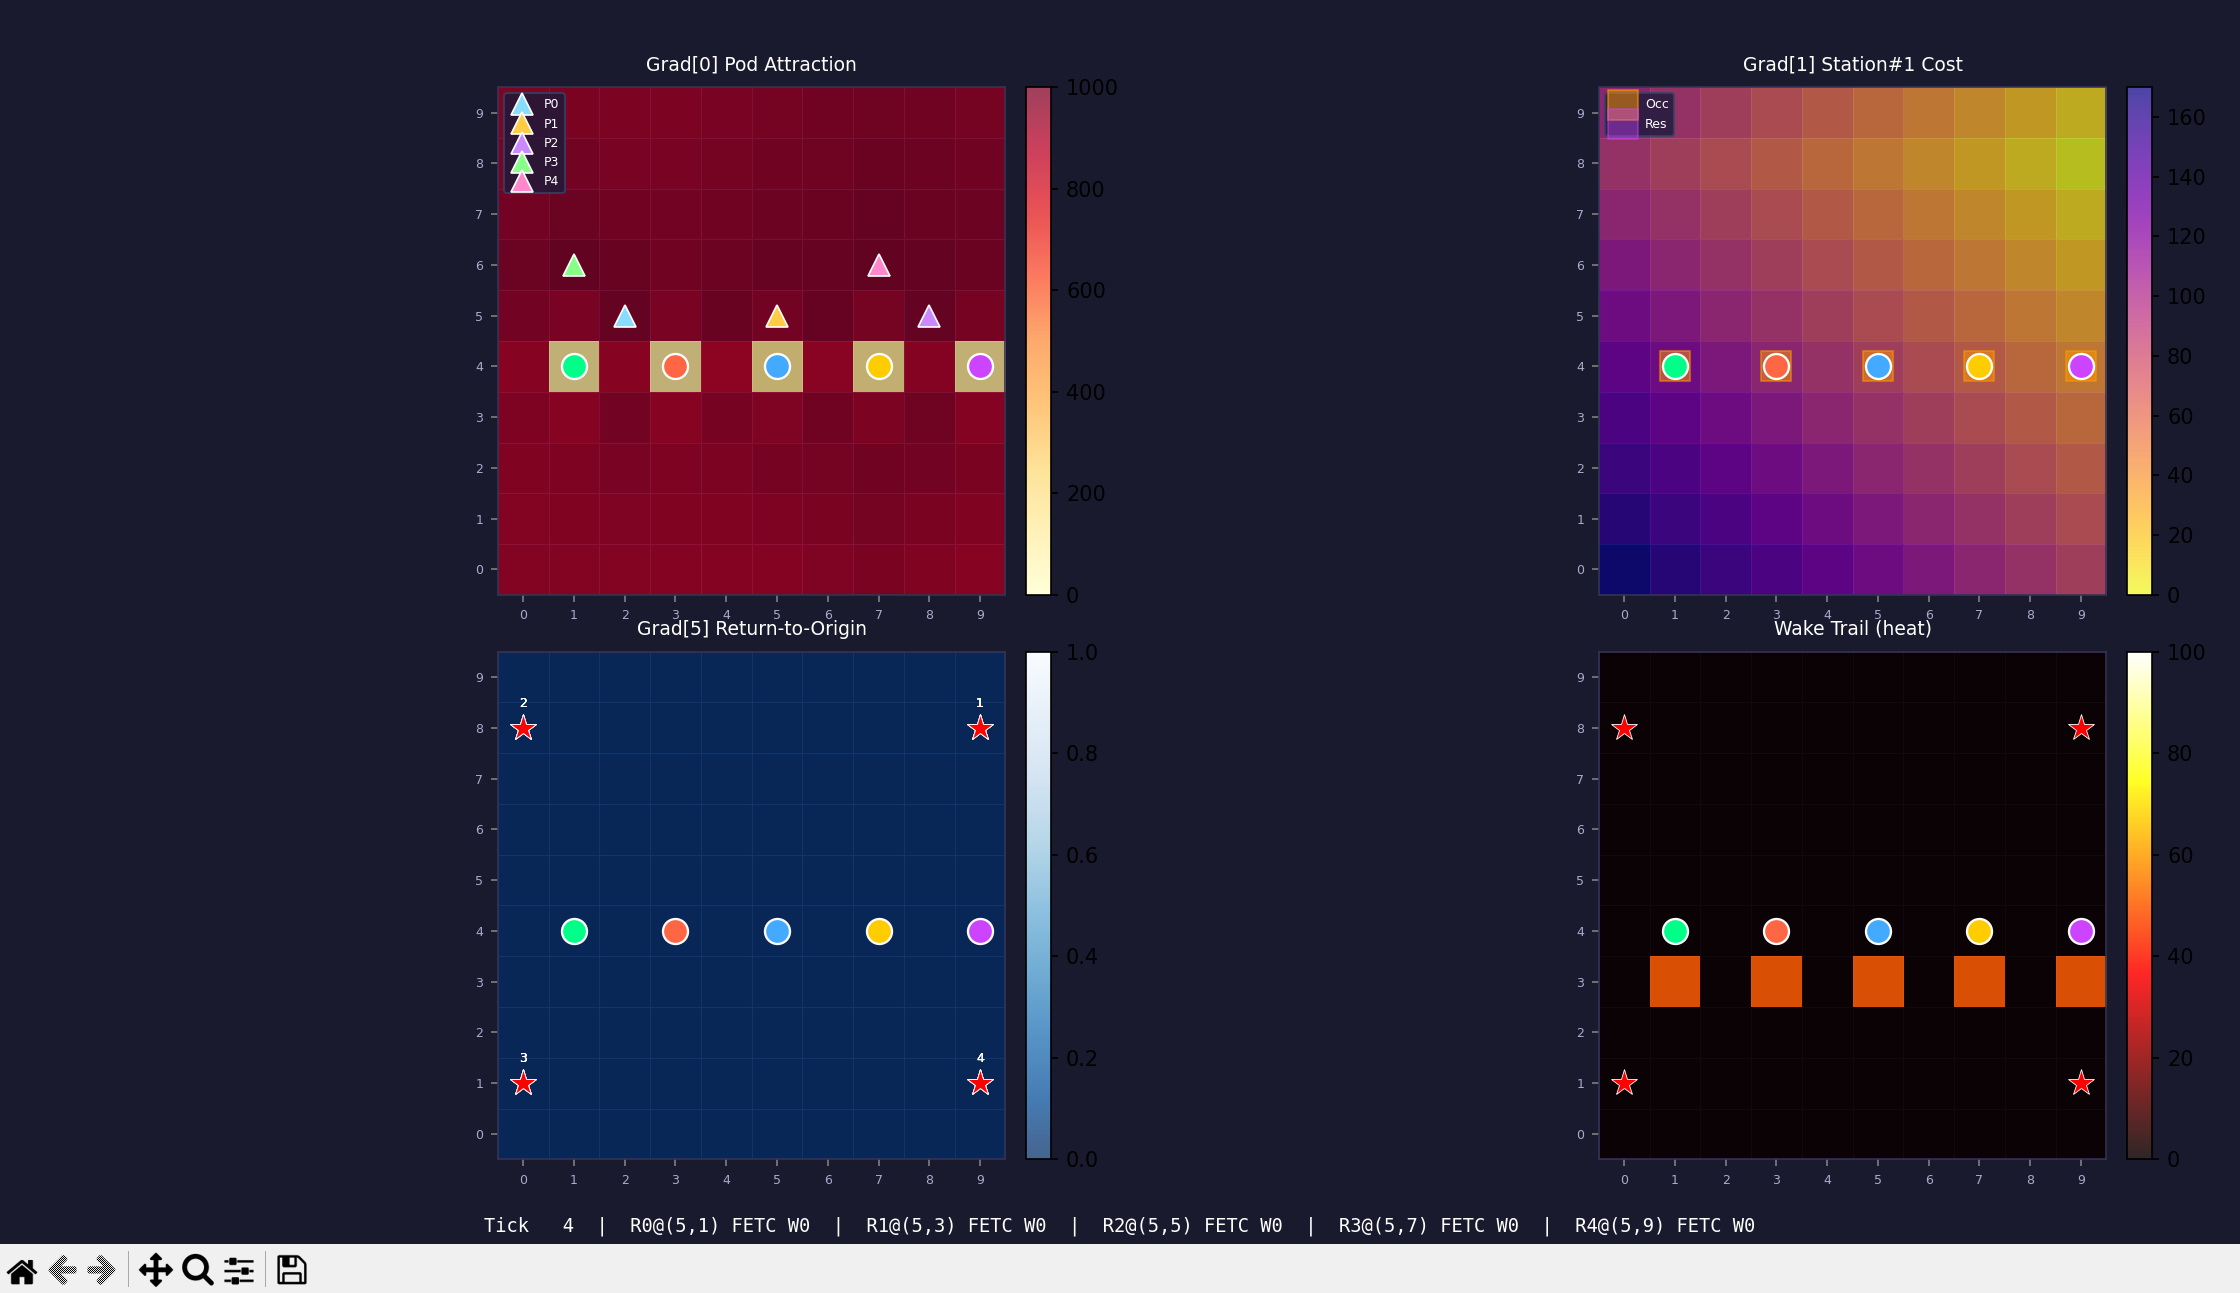
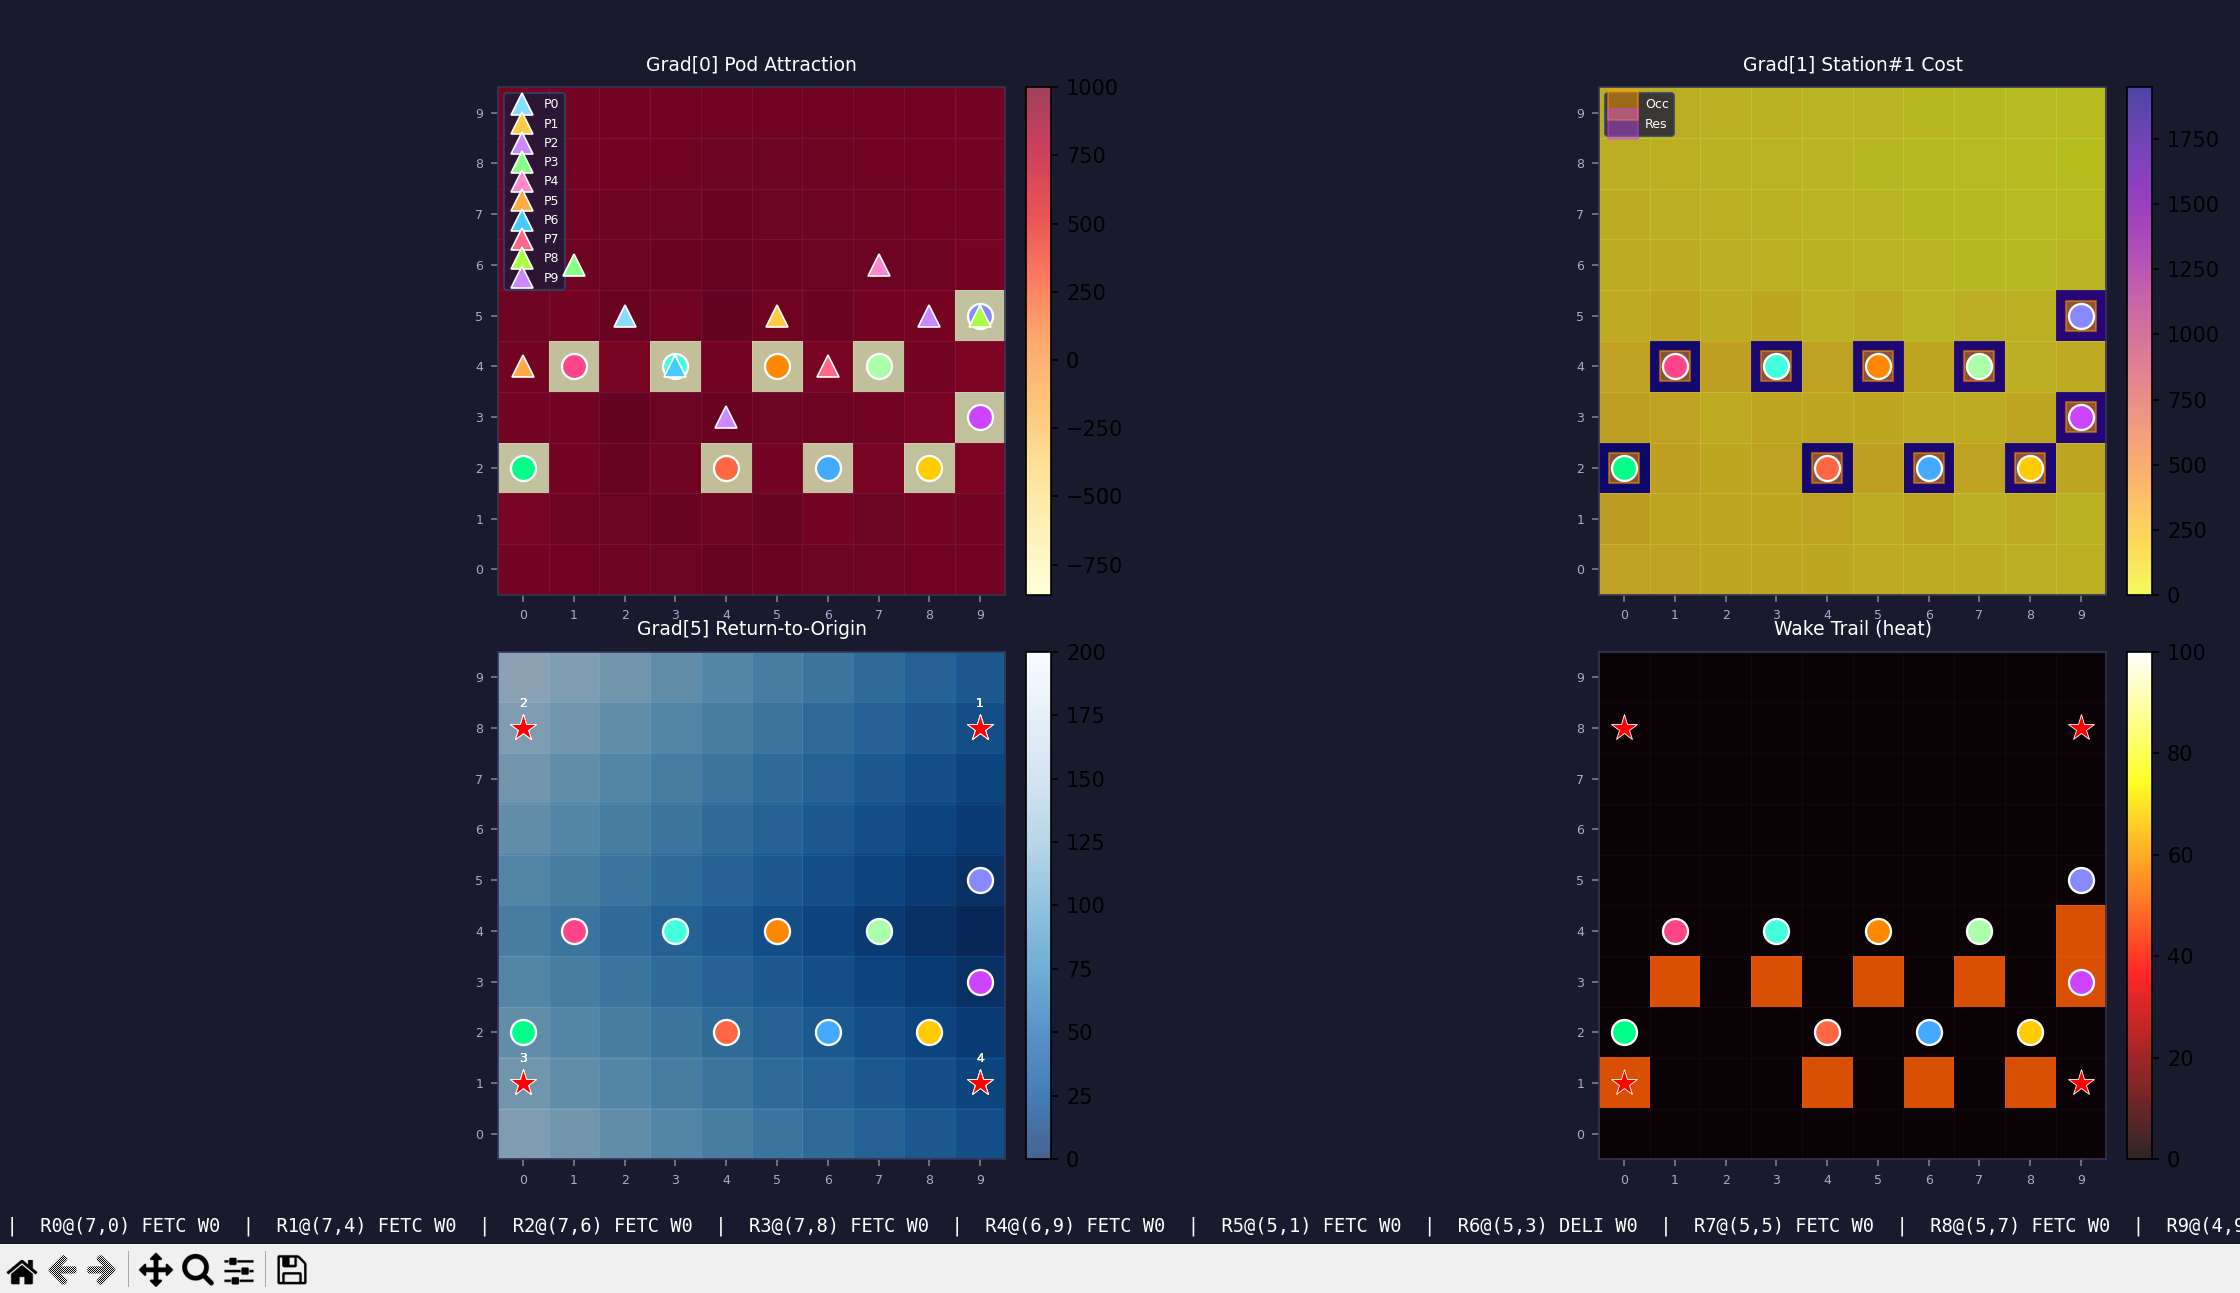
MVP_v2-20%

diff --git a/simulator.py b/simulator.py
@@ -92,20 +92,34 @@ class Simulator:
         self._pods_injected = True
 
     def _dispatch_orders(self) -> None:
-        """让所有 IDLE 机器人自动进入 FETCH_POD（由梯度自由选择 Pod）。"""
+        """让所有 IDLE 机器人自动进入 FETCH_POD（FINISH 机器人不再接收新任务）。"""
         if not self._pod_orders:
             return
         for robot in self.robots:
-            if robot.task_type == TaskType.IDLE:
+            if robot.task_type == TaskType.IDLE:       # FINISH 不在此列
                 robot.task_type = TaskType.FETCH_POD
-                # tar_id 暂不指定，等拾起 Pod 时再赋值
+
+    # ------------------------------------------------------------------
+    def _sync_return_field(self) -> None:
+        """每 tick 同步 Grad[5]：令其精确等于当前空闲 pod 槽的集合。
+        始终维护（不按机器人状态清场），对其他状态的机器人导航无影响。"""
+        free = self._all_pod_positions - self._occupied_pod_slots
+        current = set(self.injector._return_sources.keys())
+        if free == current:
+            return  # 无变化，跳过
+        self.injector._return_sources = {pos: True for pos in free}
+        if free:
+            self.injector._rebuild_return_field()
+        else:
+            self.grid.clear_dim(RETURN_DIM)
 
     # ------------------------------------------------------------------
     def tick(self) -> bool:
         self.tick_count += 1
         self._inject_all_pods()
         self._dispatch_orders()
-        self.injector.tick_diffuse(att_iters=1, cost_iters=1)
+        self._sync_return_field()                          # ← 先同步回程场
+        self.injector.tick_diffuse(att_iters=1, cost_iters=1)  # ← 再扩散（用最新 sources）
 
         # Phase 0: 在所有机器人当前位置打上 wake 标记（首次到达时设为 WAKE_INIT）
         for robot in self.robots:
@@ -137,20 +151,12 @@ class Simulator:
                 any_active = True
                 robot.wait_ticks -= 1
                 if robot.wait_ticks <= 0:
-                    assert robot.pod_origin is not None
-                    pr, pc = robot.pod_origin
                     robot.task_type = TaskType.RETURN_POD
-                    # 把所有当前空闲的 pod 槽都注入 Grad[5]
-                    # （不只是自己的 pod_origin，其他机器人还在途中的空格也要包括）
-                    free_slots = self._all_pod_positions - self._occupied_pod_slots
-                    for fpr, fpc in free_slots:
-                        if (fpr, fpc) not in self.injector._return_sources:
-                            self.injector.inject_return_field(fpr, fpc)
-                    print(f"[Sim]  Robot#{robot.robot_id} → return (targets: {len(free_slots)} free slots)  "
-                          f"tick={self.tick_count}")
+                    # Grad[5] 由下一 tick 的 _sync_return_field() 自动更新
+                    print(f"[Sim]  Robot#{robot.robot_id} → RETURN_POD  tick={self.tick_count}")
                 continue
 
-            if t == TaskType.IDLE:
+            if t == TaskType.IDLE or t == TaskType.FINISH:
                 continue
 
             any_active = True
@@ -185,39 +191,19 @@ class Simulator:
 
             elif t == TaskType.RETURN_POD:
                 assert robot.pod_origin is not None
-                orig_pr, orig_pc = robot.pod_origin
                 pos = (robot.row, robot.col)
-                # 抵达任意空闲的 Pod 原始格子即可放下（不必是自己的 pod_origin）
+                # 抵达任意空闲的 Pod 原始格子即可放下
                 if pos in self._all_pod_positions and pos not in self._occupied_pod_slots:
+                    pod_orig = robot.pod_origin
                     robot.carrying_pod = False
-                    pod_orig = robot.pod_origin       # 保存 origin，用于更新 current_pos
                     robot.pod_origin   = None
-                    robot.task_type    = TaskType.IDLE
+                    robot.task_type    = TaskType.FINISH   # ← 不再接收新任务
                     self._occupied_pod_slots.add(pos)
                     if pod_orig is not None:
-                        self._pod_current_pos[pod_orig] = pos   # 记录 pod 放在了新位置
-                    # 清除自己的回程目标
-                    self.injector.clear_return_target(orig_pr, orig_pc)
-                    # 若落点 pos 不同于自己的 pod_origin，且 pos 是某个其他机器人的回程目标
-                    # → 把该目标从 return_sources 中移除，并将那个机器人的 pod_origin 改为
-                    #   另一个空闲格，避免它继续导航到已被占的 pos
-                    if pos != (orig_pr, orig_pc) and pos in self.injector._return_sources:
-                        # 找空闲 Pod 格（不在已占列表里）重新作为回程目标
-                        free_slots = self._all_pod_positions - self._occupied_pod_slots
-                        # 将正在回程且 pod_origin == pos 的机器人重定向
-                        for other in self.robots:
-                            if (other.task_type == TaskType.RETURN_POD
-                                    and other.pod_origin == pos):
-                                new_target = next(iter(free_slots), None)
-                                if new_target:
-                                    other.pod_origin = new_target
-                                    # new_target 已在 return_sources（当初 inject 过）或需新注入
-                                    if new_target not in self.injector._return_sources:
-                                        self.injector.inject_return_field(new_target[0], new_target[1])
-                        # 最后清除 pos 作为回程目标（重建在上面的 inject 或下面隐含完成）
-                        self.injector.clear_return_target(pos[0], pos[1])
+                        self._pod_current_pos[pod_orig] = pos
+                    # Grad[5] 由下一 tick 的 _sync_return_field() 自动更新
                     self._robot_orders.pop(robot.robot_id, None)
-                    print(f"[Sim]  Robot#{robot.robot_id} returned pod @{pos} → IDLE  "
+                    print(f"[Sim]  Robot#{robot.robot_id} returned pod @{pos} → FINISH  "
                           f"tick={self.tick_count}")
 
         parts = " | ".join(
@@ -273,11 +259,18 @@ class Simulator:
             _inject(nav_cell, PENALTY_R0)
 
             # (b) Ring 1 和 Ring 2 —— 仅活跃导航中的机器人才有扩展圈
-            #     IDLE 机器人只有 ring 0（靠 occ 挡住自己格子即可）
+            #     IDLE/FINISH 机器人只有 ring 0（靠 occ 挡住自己格子即可）
             if robot.nav_dim >= 0:
                 for dist, penalty in [(1, PENALTY_R1), (2, PENALTY_R2)]:
                     for cell in self.grid.cells_at_distance(robot.row, robot.col, dist):
                         _inject(cell, penalty)
+
+        # 未被拾取的 Pod 位置对 DELIVER 机器人注入 ring-0 阻碍
+        # （代价场下降方向，高值 = 不走）
+        if exclude_robot.task_type == TaskType.DELIVER:
+            for (pr, pc) in self._pod_orders:
+                pod_cell = self.grid[pr, pc]
+                _inject(pod_cell, PENALTY_R0)
 
     def _remove_others_penalties(self) -> None:
         for (dim, r, c), orig in self._penalty_snapshot.items():

diff --git a/main.py b/main.py
@@ -25,7 +25,20 @@ STATIONS = {
     4: (8, 9),
 }
 
-ROBOT_STARTS = [(9, 1), (9, 3), (9, 5), (9, 7), (9, 9)]
+# 5-robot/5-pod config (保留备用):
+# ROBOT_STARTS = [(9, 1), (9, 3), (9, 5), (9, 7), (9, 9)]
+# ORDERS = [
+#     (4, 2, 2),   # Pod@(4,2) → Station#2
+#     (4, 5, 1),   # Pod@(4,5) → Station#1
+#     (4, 8, 3),   # Pod@(4,8) → Station#3
+#     (3, 1, 4),   # Pod@(3,1) → Station#4
+#     (3, 7, 1),   # Pod@(3,7) → Station#1
+# ]
+
+ROBOT_STARTS = [
+    (9, 1), (9, 3), (9, 5), (9, 7), (9, 9),   # row 9
+    (8, 1), (8, 3), (8, 5), (8, 7), (7, 9),   # row 8 / 7
+]
 
 ORDERS = [
     (4, 2, 2),   # Pod@(4,2) → Station#2
@@ -33,14 +46,25 @@ ORDERS = [
     (4, 8, 3),   # Pod@(4,8) → Station#3
     (3, 1, 4),   # Pod@(3,1) → Station#4
     (3, 7, 1),   # Pod@(3,7) → Station#1
+    (5, 0, 3),   # Pod@(5,0) → Station#3
+    (5, 3, 2),   # Pod@(5,3) → Station#2
+    (5, 6, 4),   # Pod@(5,6) → Station#4
+    (5, 9, 1),   # Pod@(5,9) → Station#1
+    (6, 4, 2),   # Pod@(6,4) → Station#2
 ]
 
 VISUALIZE     = True
 MAX_TICKS     = 500
 TICK_INTERVAL = 0.12
 
-ROBOT_COLORS = ["#00ff88", "#ff6644", "#44aaff", "#ffcc00", "#cc44ff"]
-POD_COLORS   = ["#88ddff", "#ffcc44", "#cc88ff", "#88ff88", "#ff88cc"]
+ROBOT_COLORS = [
+    "#00ff88", "#ff6644", "#44aaff", "#ffcc00", "#cc44ff",
+    "#ff4488", "#44ffdd", "#ff8800", "#aaffaa", "#8888ff",
+]
+POD_COLORS = [
+    "#88ddff", "#ffcc44", "#cc88ff", "#88ff88", "#ff88cc",
+    "#ffaa44", "#44ccff", "#ff6688", "#aaff44", "#cc88ff",
+]
 
 
 def build_sim() -> Simulator:
@@ -210,8 +234,14 @@ def run_visual() -> None:
                 rmin = float(raw.min())
                 im.set_clim(min(rmin, 0), nat_cap)
                 im.set_data(np.flipud(raw))
+            elif dim == RETURN_DIM:
+                # 回程代价场：固定色阶，防止 rebuild 时短暂清空导致闪烁
+                RETURN_VIZ_CAP = (ROWS + COLS) * 10.0  # RETURN_DELTA_DECAY=10
+                im.set_clim(0, RETURN_VIZ_CAP)
+                raw_clipped = np.clip(raw, 0, RETURN_VIZ_CAP)
+                im.set_data(np.flipud(raw_clipped))
             else:
-                # 代价场：用实际 penalized max 作为 cap（过滤 INF）
+                # 其他代价场：动态 cap（过滤 INF）
                 fin = raw[raw < COST_INF * 0.5]
                 viz_cap = float(fin.max()) if fin.size > 0 else nat_cap
                 im.set_clim(0, max(viz_cap, 1.0))

diff --git a/injector.py b/injector.py
@@ -140,7 +140,10 @@ class GradientInjector:
     # 每 tick 维持活跃场
     # ------------------------------------------------------------------
     def tick_diffuse(self, att_iters: int = 1, cost_iters: int = 1) -> None:
-        # Pod 吸引场
+        # Pod 吸引场：先把所有 source cell 钉回 MAX_GRAD，再扩散
+        # 多峰顺序 inject_order 会让先注入的峰在后续 diffuse 中衰减，每 tick 重钉修复
+        for (sr, sc) in self._pod_sources:
+            self.grid.inject(sr, sc, POD_DIM, MAX_GRAD)
         for (sr, sc) in self._pod_sources:
             self.grid.diffuse(POD_DIM, alpha=ALPHA, delta_decay=DELTA_DECAY,
                               iterations=att_iters,

diff --git a/robot.py b/robot.py
@@ -27,6 +27,7 @@ class TaskType(Enum):
     DELIVER          = auto()
     WAIT_AT_STATION  = auto()
     RETURN_POD       = auto()
+    FINISH           = auto()   # 放回 pod 后，不再接收新任务
 
 
 class Robot:

diff --git a/README.md b/README.md
@@ -1,0 +1,126 @@
+# Pixel-Centrix-Automata
+
+基于梯度场的多机器人仓库导航仿真系统。机器人通过**吸引场**（爬升）和**代价场**（下降）自主导航，完成 Pod 拾取 → 工作站配送 → Pod 归还的全流程。
+
+## 系统架构
+
+```
+main.py          入口 & 可视化（matplotlib 实时热力图）
+├── simulator.py   仿真调度核心（tick 循环、状态机、防碰撞）
+│   ├── injector.py  梯度注入器（场的创建、扩散、清理）
+│   ├── robot.py     机器人 Agent（导航决策、移动执行）
+│   └── grid.py      地图（Cell 二维数组、扩散算法）
+│       └── cell.py    格子 Agent（6 维梯度 + wake 尾迹）
+```
+
+## 梯度维度
+
+| 维度 | 名称 | 类型 | 方向 | 用途 |
+|------|------|------|------|------|
+| `Grad[0]` | Pod 吸引场 | 吸引场 | 爬升（高值=目标） | 多 Pod 峰共用，引导 FETCH_POD 机器人 |
+| `Grad[1..4]` | 工作站代价场 | 代价场 | 下降（低值=目标） | 每站独立维度，引导 DELIVER 机器人 |
+| `Grad[5]` | 返程代价场 | 代价场 | 下降（低值=目标） | 多返程目标共用，引导 RETURN_POD 机器人 |
+
+## 机器人状态机
+
+```
+IDLE → FETCH_POD → DELIVER → WAIT_AT_STATION → RETURN_POD → FINISH
+ │         │           │            │                │          │
+ │    爬升Grad[0]  下降Grad[K]   等待N tick      下降Grad[5]   终态
+ │    拾取任意Pod  送往工作站    工作站处理      归还至任意空槽  不再派发
+ └─────────────────────────────────────────────────────────────┘
+```
+
+**自由选择机制**：
+- **FETCH_POD**：机器人沿 Grad[0] 自由爬升，到达任意未拾取的 Pod 即可拾起
+- **RETURN_POD**：机器人沿 Grad[5] 自由下降，到达任意空闲的 Pod 原始格子即可放下
+
+## 核心机制
+
+### 扩散算法
+
+- **吸引场** `diffuse`：`g(t+1) = α·g(t) + (1-α)·max(g_n(t) - δ, 0)`
+  - Source 钉在 `MAX_GRAD=1000`，外围衰减，机器人爬升
+- **代价场** `diffuse_cost`：`g(t+1) = min(g(t), min_nbr(g_n(t)) + δ)`
+  - Source 钉在 `0`，外围递增，机器人下降
+
+### 防碰撞
+
+| 层级 | 范围 | 惩罚值 | 说明 |
+|------|------|--------|------|
+| Ring 0 | 机器人所在格 | `PENALTY_R0` | 对所有导航中的其他机器人注入 |
+| Ring 1 | 曼哈顿距离=1 | `PENALTY_R1` | 仅活跃导航机器人 |
+| Ring 2 | 曼哈顿距离=2 | `PENALTY_R2` | 仅活跃导航机器人 |
+| Pod 阻碍 | 未拾取 Pod 格 | `PENALTY_R0` | 仅对 DELIVER 机器人生效 |
+
+惩罚方向与导航方向一致：吸引场注入低值（凹坑），代价场注入高值（凸峰）。
+
+### Wake 尾迹（反回溯）
+
+- 机器人进入新格子时设置 `wake = WAKE_INIT`
+- 机器人离开后 wake 以 `WAKE_DELTA` 逐 tick 衰减
+- 导航评分：`score = grad[dim] ± W2·wake`（爬升减、下降加）
+- 效果：抑制机器人原路返回或在局部振荡
+
+### 回程场同步 (`_sync_return_field`)
+
+每 tick 开始时自动将 Grad[5] 同步为当前所有空闲 Pod 槽：
+```
+free_slots = _all_pod_positions - _occupied_pod_slots
+```
+消除事件驱动管理中的竞态（同一 tick 内 FETCH 拾起释放新槽 / RETURN 放下占据槽）。
+
+## 可视化
+
+4 面板实时热力图：
+
+| 面板 | 内容 | 色图 |
+|------|------|------|
+| 左上 | Grad[0] Pod 吸引场 | `RdYlGn` |
+| 右上 | Grad[1] Station#1 代价场 | `YlGnBu` |
+| 左下 | Grad[5] 返程代价场 | `YlGnBu` |
+| 右下 | Wake 尾迹热力图 | `hot` |
+
+标记说明：
+- ●（圆点）= 机器人，颜色区分 ID
+- ▲（三角）= Pod，颜色区分 ID，搬运时跟随机器人
+- ★（红星）= 工作站
+- 灰色方块 = 被占据/预约的格子
+
+## 配置参数
+
+| 参数 | 默认值 | 位置 | 说明 |
+|------|--------|------|------|
+| `ROWS, COLS` | 10, 10 | main.py | 地图大小 |
+| `MAX_TICKS` | 500 | main.py | 最大仿真步数 |
+| `TICK_INTERVAL` | 0.12s | main.py | 可视化帧间隔 |
+| `WAIT_TICKS` | 5 | simulator.py | 工作站等待时间 |
+| `MAX_GRAD` | 1000 | injector.py | 吸引场峰值 |
+| `ALPHA` | 0.90 | injector.py | 吸引场扩散惯性 |
+| `DELTA_DECAY` | 10 | injector.py | 吸引场空间衰减 |
+| `WAKE_INIT` | 5.0 | simulator.py | wake 初始值 |
+| `WAKE_DELTA` | 1.0 | simulator.py | wake 衰减速率 |
+| `W2` | 25.0 | simulator.py | wake 评分权重 |
+
+## 快速开始
+
+```bash
+# 激活环境
+conda activate "XXX"
+
+# 运行仿真（含可视化）
+python main.py
+```
+
+当前配置：10 台机器人、10 个 Pod、4 个工作站，约 67 tick 完成所有任务。
+
+## 依赖
+
+- Python 3.10+
+- NumPy
+- Matplotlib
+
+## DEMO with 20% Nodes
+![DEMO](./demo1.png)
+![DEMO](./demo2.png)
+![DEMO](./demo3.png)
